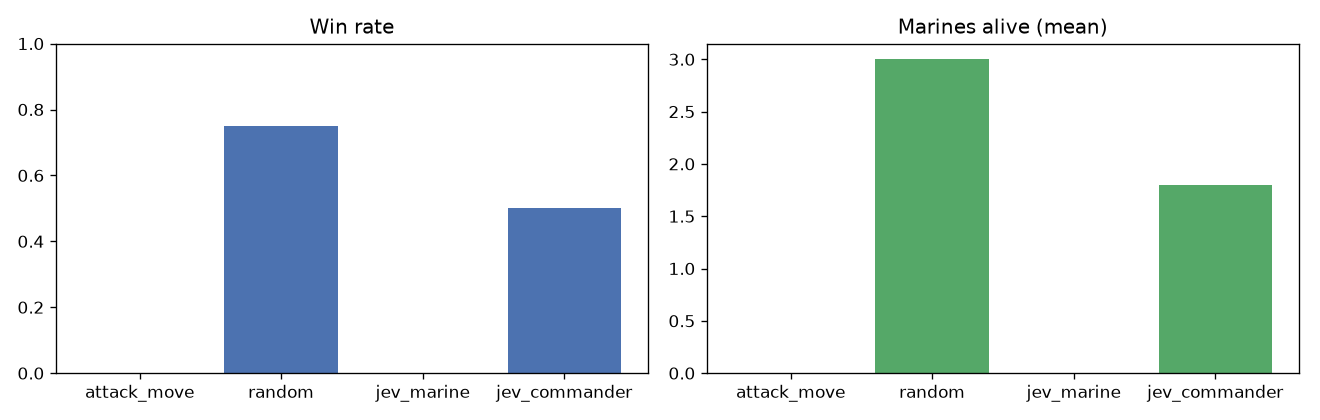
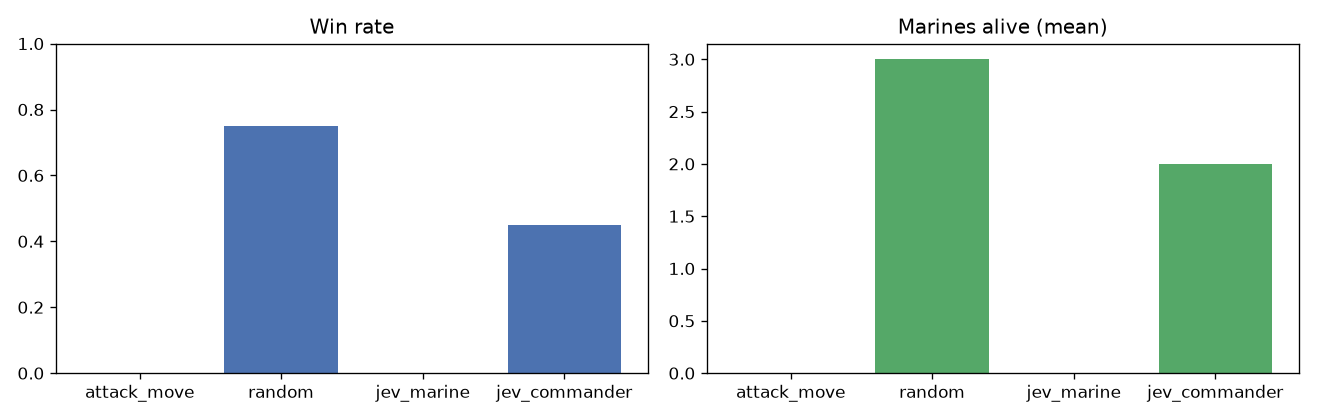
feat(004): round 4g results (20 commander fights)

Changed region(s): [[0.8697, 0.3714, 0.9629, 0.4643], [0.3727, 0.4952, 0.497, 0.5571]]

diff --git a/004-sc2-squad-commander/results/round4f/table.md b/004-sc2-squad-commander/results/round4f/table.md
@@ -3,4 +3,4 @@
 | attack_move | 10 | 0 | 0 | 0.00 | 0 | 9.20 | 3.83 | - | - | 0.00 |
 | random | 20 | 15 | 15 | 0.75 | 3 | 18.55 | 19.94 | - | - | 0.00 |
 | jev_marine | 10 | 0 | 0 | 0.00 | 0 | 11.40 | 17.10 | 155.50 | 198.70 | 0.04 |
-| jev_commander | 20 | 9 | 9 | 0.45 | 2 | 17.30 | 10.69 | 328.90 | 399.30 | 0.19 |
+| jev_commander | 20 | 10 | 10 | 0.50 | 1.80 | 17.20 | 14.28 | 322.70 | 401.50 | 0.23 |
